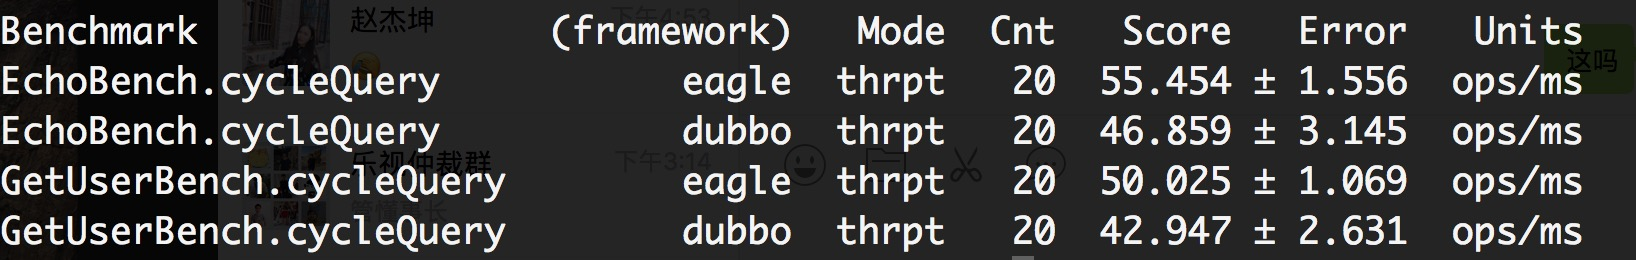
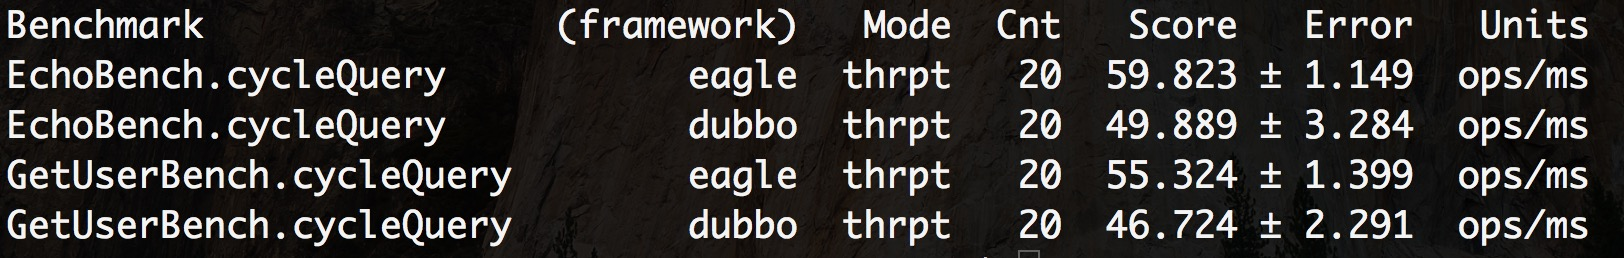
修改连接归还时间

diff --git a/eagle-transport-netty/src/main/java/eagle/jfaster/org/client/channel/AbstractNettyChannel.java b/eagle-transport-netty/src/main/java/eagle/jfaster/org/client/channel/AbstractNettyChannel.java
@@ -3,6 +3,7 @@ package eagle.jfaster.org.client.channel;
 import eagle.jfaster.org.client.NettyClient;
 import eagle.jfaster.org.client.NettyResponseFuture;
 import eagle.jfaster.org.client.pool.NettyPoolEntry;
+import eagle.jfaster.org.client.pool.NettySharedConnPool;
 import eagle.jfaster.org.config.ConfigEnum;
 import eagle.jfaster.org.config.common.MergeConfig;
 import eagle.jfaster.org.exception.EagleFrameException;
@@ -51,38 +52,42 @@ public abstract class AbstractNettyChannel {
         sync = (callBack == null);
     }
 
-    public Object request(Request request) throws Exception {
+    public Object request(Request request, NettySharedConnPool connPool) throws Exception {
         int timeout = config.getExtInt(ConfigEnum.requestTimeout.getName(),ConfigEnum.requestTimeout.getIntValue());
-        if(timeout < 0){
-            throw new EagleFrameException("The request timeout of %s is not allowed to set 0",timeout);
-        }
         final int opaque = request.getOpaque();
         final NettyResponseFuture responseFuture = new NettyResponseFuture(opaque,timeout,callBack);
-        client.addCallBack(opaque,responseFuture);
-        final SocketAddress addr = channel.remoteAddress();
-        channel.writeAndFlush(request).addListener(new ChannelFutureListener() {
-            @Override
-            public void operationComplete(ChannelFuture f) throws Exception {
-                if (f.isSuccess()) {
-                    responseFuture.setSendRequestOK(true);
-                    client.resetErrorCount();
-                    return;
-                } else {
-                    client.incrErrorCount();
-                    responseFuture.setSendRequestOK(false);
-                }
-
-                client.removeCallBack(opaque);
-                Exception e = new EagleFrameException(f.cause().getMessage());
-                if (!sync){
-                    responseFuture.setException(e);
-                    client.executeInvokeCallback(responseFuture);
-                }else {
-                    responseFuture.onFail(e);
-                }
-                logger.warn("send a request command to channel <" + addr + "> failed.");
+        try {
+            if(timeout < 0){
+                throw new EagleFrameException("The request timeout of %s is not allowed to set 0",timeout);
             }
-        });
+            client.addCallBack(opaque,responseFuture);
+            final SocketAddress addr = channel.remoteAddress();
+            channel.writeAndFlush(request).addListener(new ChannelFutureListener() {
+                @Override
+                public void operationComplete(ChannelFuture f) throws Exception {
+                    if (f.isSuccess()) {
+                        responseFuture.setSendRequestOK(true);
+                        client.resetErrorCount();
+                        return;
+                    } else {
+                        client.incrErrorCount();
+                        responseFuture.setSendRequestOK(false);
+                    }
+
+                    client.removeCallBack(opaque);
+                    Exception e = new EagleFrameException(f.cause().getMessage());
+                    if (!sync){
+                        responseFuture.setException(e);
+                        client.executeInvokeCallback(responseFuture);
+                    }else {
+                        responseFuture.onFail(e);
+                    }
+                    logger.warn("send a request command to channel <" + addr + "> failed.");
+                }
+            });
+        } finally {
+            connPool.release(this);
+        }
         return handle(timeout,responseFuture);
 
     }

diff --git a/eagle-transport-netty/src/main/java/eagle/jfaster/org/client/NettyClient.java b/eagle-transport-netty/src/main/java/eagle/jfaster/org/client/NettyClient.java
@@ -242,17 +242,13 @@ public class NettyClient implements Client,StatisticCallback {
         AbstractNettyChannel channel = null;
         try {
             channel = connPool.getConnection();
-            return channel.request(request);
+            return channel.request(request,connPool);
         } catch (Throwable e) {
             logger.error("NettyClient request error,interface:"+config.getInterfaceName()+",host:"+config.identity(),e);
             if(channel != null){
                 connPool.invalidateConnection(channel);
             }
             throw new EagleFrameException(e.getMessage());
-        }finally {
-            if(channel != null){
-                connPool.release(channel);
-            }
         }
     }
 
